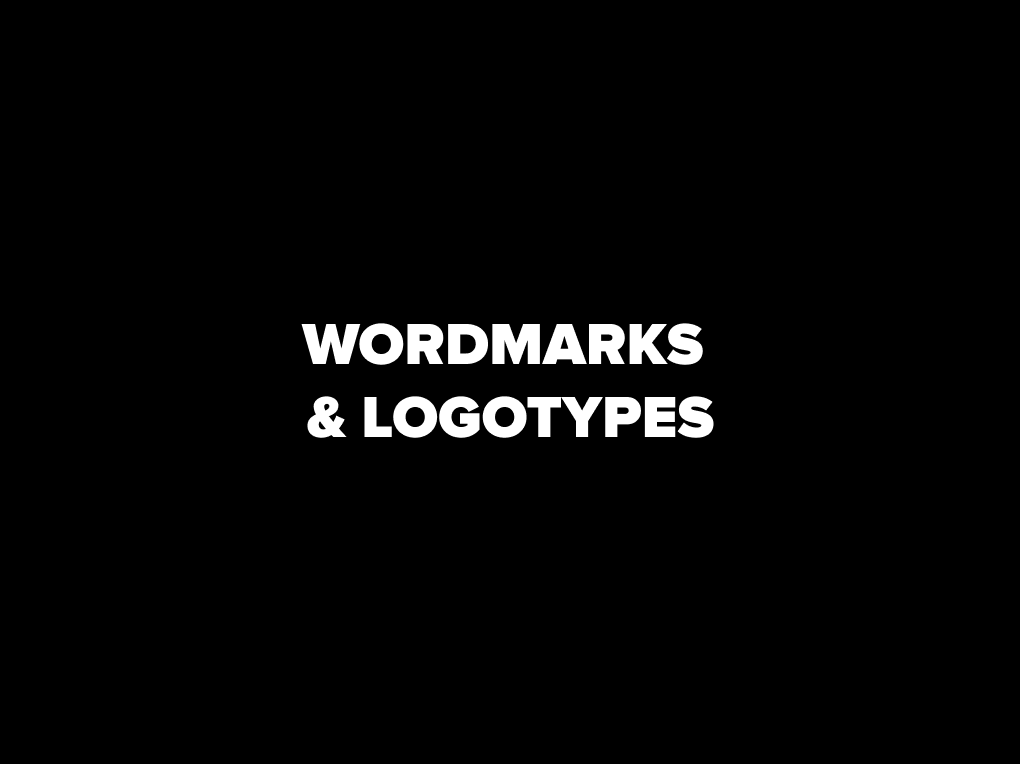
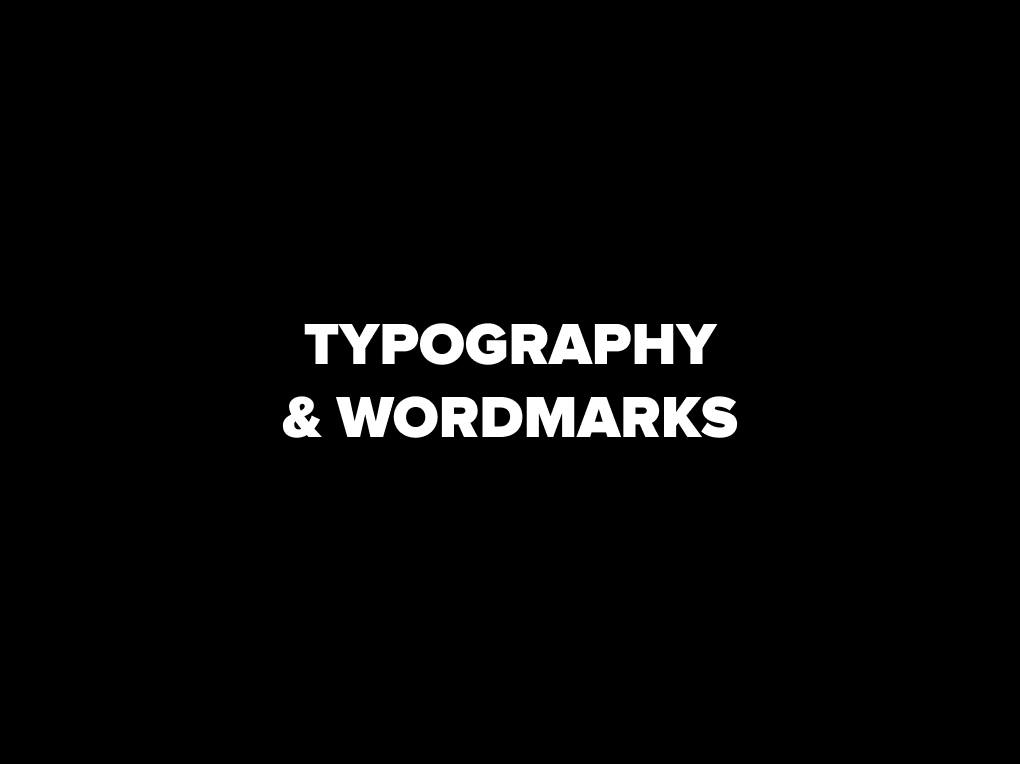
ADD

Changed region(s): [[0.2735, 0.4215, 0.699, 0.4817], [0.4255, 0.5118, 0.7294, 0.572], [0.2735, 0.5118, 0.3951, 0.572]]

diff --git a/index.html b/index.html
@@ -11,6 +11,8 @@
     <link rel="stylesheet" href="css/font.css">
     <link rel="stylesheet" href="new-style.css">
     <link rel="stylesheet" href="css/new-responsive.css">
+    <link rel="stylesheet" href="https://cdn.jsdelivr.net/npm/swiper@10/swiper-bundle.min.css" />
+
 
     <title>Blademark ™</title>
 </head>
@@ -58,8 +60,60 @@
         <section id="studio">
             <!-- <img src="img/bg-studio.png"> -->
             <video class="video-bg" src="video/bg-video.mp4" loop muted autoplay></video>
-            <p>Blademark ™ is an independent graphic design studio founded by Andjela & Aleksandar Pavlovic, a couple
-                specialized in crafting unique logos & brand identities for startaps with taste.</p>
+            <p>Blademark ™ is an independent design & animation studio founded by Andjela & Aleksandar Pavlovic, a
+                couple
+                specialized in crafting unique brands & engaging digital experiences for startaps with taste.</p>
+            <div class="swiper services-swiper">
+                <div class="swiper-wrapper">
+                    <div class="swiper-slide service-slide">
+                        <h4>LOGO & BRAND IDENTITY</h4>
+                        <p class="service-details">We design unique brands & create their identities with different
+                            aproach and everything will be fine.</p>
+                        <div class="tags">
+                            <a class="tag">MONOGRAM</a>
+                            <a class="tag">TYPOGRAPHY</a>
+                            <a class="tag">COLORS</a>
+                            <a class="tag">MARK</a>
+                            <a class="tag">WORDMARK</a>
+                        </div>
+                    </div>
+                    <div class="swiper-slide service-slide">
+                        <h4>WEB DESIGN & DEVELOPMENT</h4>
+                        <p class="service-details">We design unique brands & create their identities with different
+                            aproach and everything will be fine.</p>
+                        <div class="tags">
+                            <a class="tag">UX & UI</a>
+                            <a class="tag">HTML & CSS</a>
+                            <a class="tag">JAVASCRIPT</a>
+                            <a class="tag">WEBFLOW</a>
+                            <a class="tag">FIGMA</a>
+                        </div>
+                    </div>
+                    <div class="swiper-slide service-slide">
+                        <h4>CLOTHING & MERCH DESIGN</h4>
+                        <p class="service-details">We design unique brands & create their identities with different
+                            aproach and everything will be fine.</p>
+                        <div class="tags">
+                            <a class="tag">T-SHIRT</a>
+                            <a class="tag">HOODIE</a>
+                            <a class="tag">SOCKS</a>
+                            <a class="tag">STICKER</a>
+                            <a class="tag">BACKPACK</a>
+                        </div>
+                    </div>
+                    <div class="swiper-slide service-slide">
+                        <h4>MOTION GRAPHICS & ANIMATION</h4>
+                        <p class="service-details">We design unique brands & create their identities with different
+                            aproach and everything will be fine.</p>
+                        <div class="tags">
+                            <a class="tag">STORYTELLING</a>
+                            <a class="tag">2D</a>
+                            <a class="tag">LOGO ANIMATION</a>
+                            <a class="tag">INTERFACE ANIMATION</a>
+                        </div>
+                    </div>
+                </div>
+            </div>
         </section>
 
 
@@ -73,24 +127,31 @@
                         <a href="marks.html"><img src="img/projects/thumbnails/project-01.png"></a>
                         <p>MARKS & SYMBOLS</p>
                     </div>
-                  
+                    <div class="project" data-aos="fade-up" data-aos-delay="100" data-aos-duration="300">
+                        <a href="marks.html"><img src="img/projects/thumbnails/project-01.png"></a>
+                        <p>MARKS & SYMBOLS</p>
+                    </div>
                     <div class="project" data-aos="fade-up" data-aos-delay="200" data-aos-duration="300">
                         <a href="blademark.html"><img src="img/projects/thumbnails/project-02.png"></a>
                         <p>BLADEMARK - BRAND CREATION</p>
                     </div>
-                    
+
                 </div>
                 <div class="m-projects">
                     <div class="project" data-aos="fade-up" data-aos-delay="300" data-aos-duration="300">
                         <a href="merch.html"><img src="img/projects/thumbnails/project-03.png"></a>
                         <p>CLOTHING & MERCH DESIGN</p>
                     </div>
-                  
+                    <div class="project" data-aos="fade-up" data-aos-delay="300" data-aos-duration="300">
+                        <a href="merch.html"><img src="img/projects/thumbnails/project-03.png"></a>
+                        <p>CLOTHING & MERCH DESIGN</p>
+                    </div>
+
                     <div class="project" data-aos="fade-up" data-aos-delay="400" data-aos-duration="300">
-                        <a href="wordmarks.html"><img src="img/projects/thumbnails/project-04.png"></a>
+                        <a href="typography.html"><img src="img/projects/thumbnails/project-04.png"></a>
                         <p>TYPOGRAPHY & WORDMARKS</p>
                     </div>
-                    
+
                 </div>
             </div>
 
@@ -229,6 +290,7 @@
         </div>
     </div> -->
 
+    <script src="https://cdn.jsdelivr.net/npm/swiper@10/swiper-bundle.min.js"></script>
     <script src="js/jquery-3.6.0.min.js"></script>
     <script src="js/jquery.smartmenus.min.js"></script>
     <script src="js/aos.js"></script>
@@ -237,6 +299,33 @@
     <script src="js/imagesloaded.pkgd.min.js"></script>
     <script src="js/isotope.js"></script>
     <script src="js/main.js"></script>
+
+    <script>
+        var swiper = new Swiper(".services-swiper", {
+            slidesPerView: 1,
+            spaceBetween: 20,
+            // loop: true,
+            // autoplay: {
+            //     delay: 2500,
+            //     disableOnInteraction: false,
+            // },
+            breakpoints: {
+                640: {
+                    slidesPerView: 1,
+                    spaceBetween: 20,
+                },
+                768: {
+                    slidesPerView: 2,
+                    spaceBetween: 20,
+                },
+                1024: {
+                    slidesPerView: 4,
+                    spaceBetween: 20,
+                },
+            },
+
+        });
+    </script>
 </body>
 
 </html>

diff --git a/style.css b/style.css
@@ -445,6 +445,57 @@ li.menu-item a {
   max-width: 1440px;
 }
 
+.services-swiper {
+  background-color: #fff !important;
+  margin-top: 50px;
+}
+.service-slide {
+  background-color: #e2e2e2 !important;
+  text-align: left !important;
+  display: flex;
+ align-items: flex-start !important;
+}
+.service-slide h4 {
+  color: #fff;
+  font-size: 1.4rem;
+  text-transform: uppercase;
+  font-weight: 700;
+  line-height: normal;
+  text-align: left;
+  padding: 15px 20px;
+  background: #000;
+}
+
+.service-slide p {
+  color: #000000;
+  font-size: 1.4rem;
+  line-height: normal;
+  margin: 5px 0 20px 0;
+  text-align: left;
+  padding-left: 20px;
+}
+.service-details {
+  font-size: 1.4rem;
+  text-align: left !important;
+  line-height: normal;
+  color: #fff;
+  padding: 20px;
+}
+.tags {
+  display: flex;
+  flex-wrap: wrap;
+  padding: 20px;
+}
+.tag {
+  color: #313131;
+  background-color: #d4d4d4;
+  padding: 5px 10px;
+  margin-right: 5px;
+  margin-top: 5px;
+  font-size: 1.2rem;
+  font-weight: 700;
+  text-transform: uppercase;
+}
 /* Projects */
 
 #projects {

diff --git a/css/new-responsive.css b/css/new-responsive.css
@@ -65,13 +65,13 @@
         flex-direction: row;
     }
 
-    .project:nth-child(odd) {
+    /* .project:nth-child(odd) {
         margin-right: 20px;
-    }
-    /* .project {
+    } */
+    .project {
         margin-right: 20px;
     }
     .project:nth-child(3) {
         margin-right: 0px;
-    } */
+    }
 }
